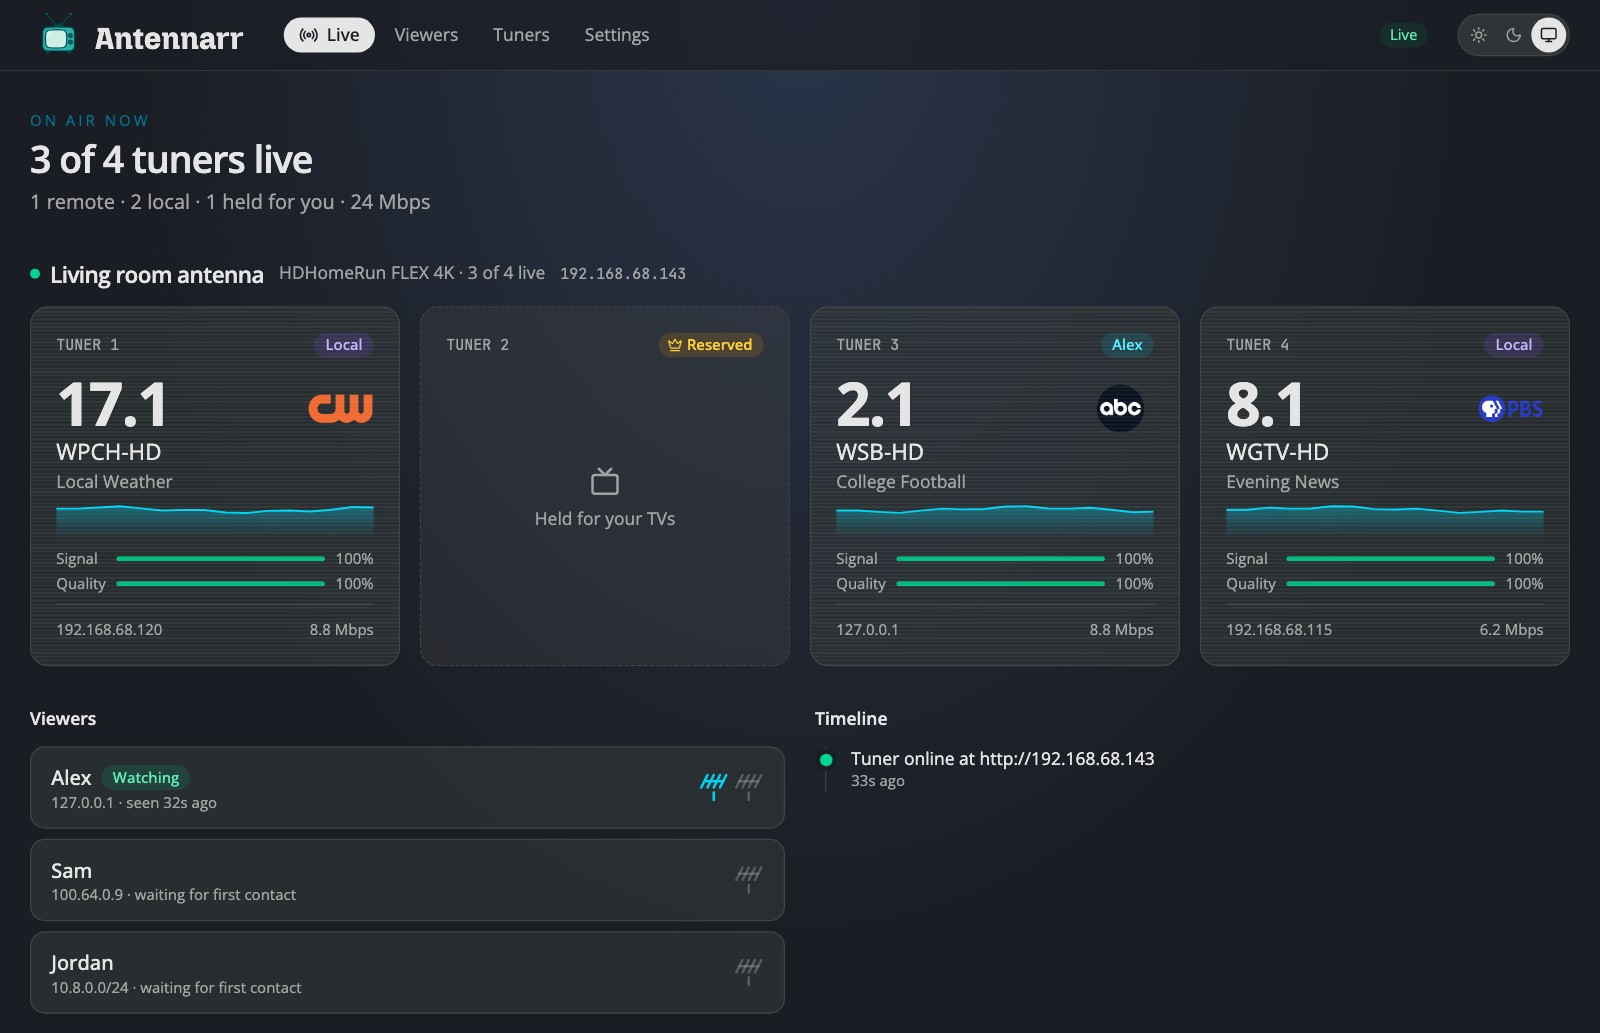
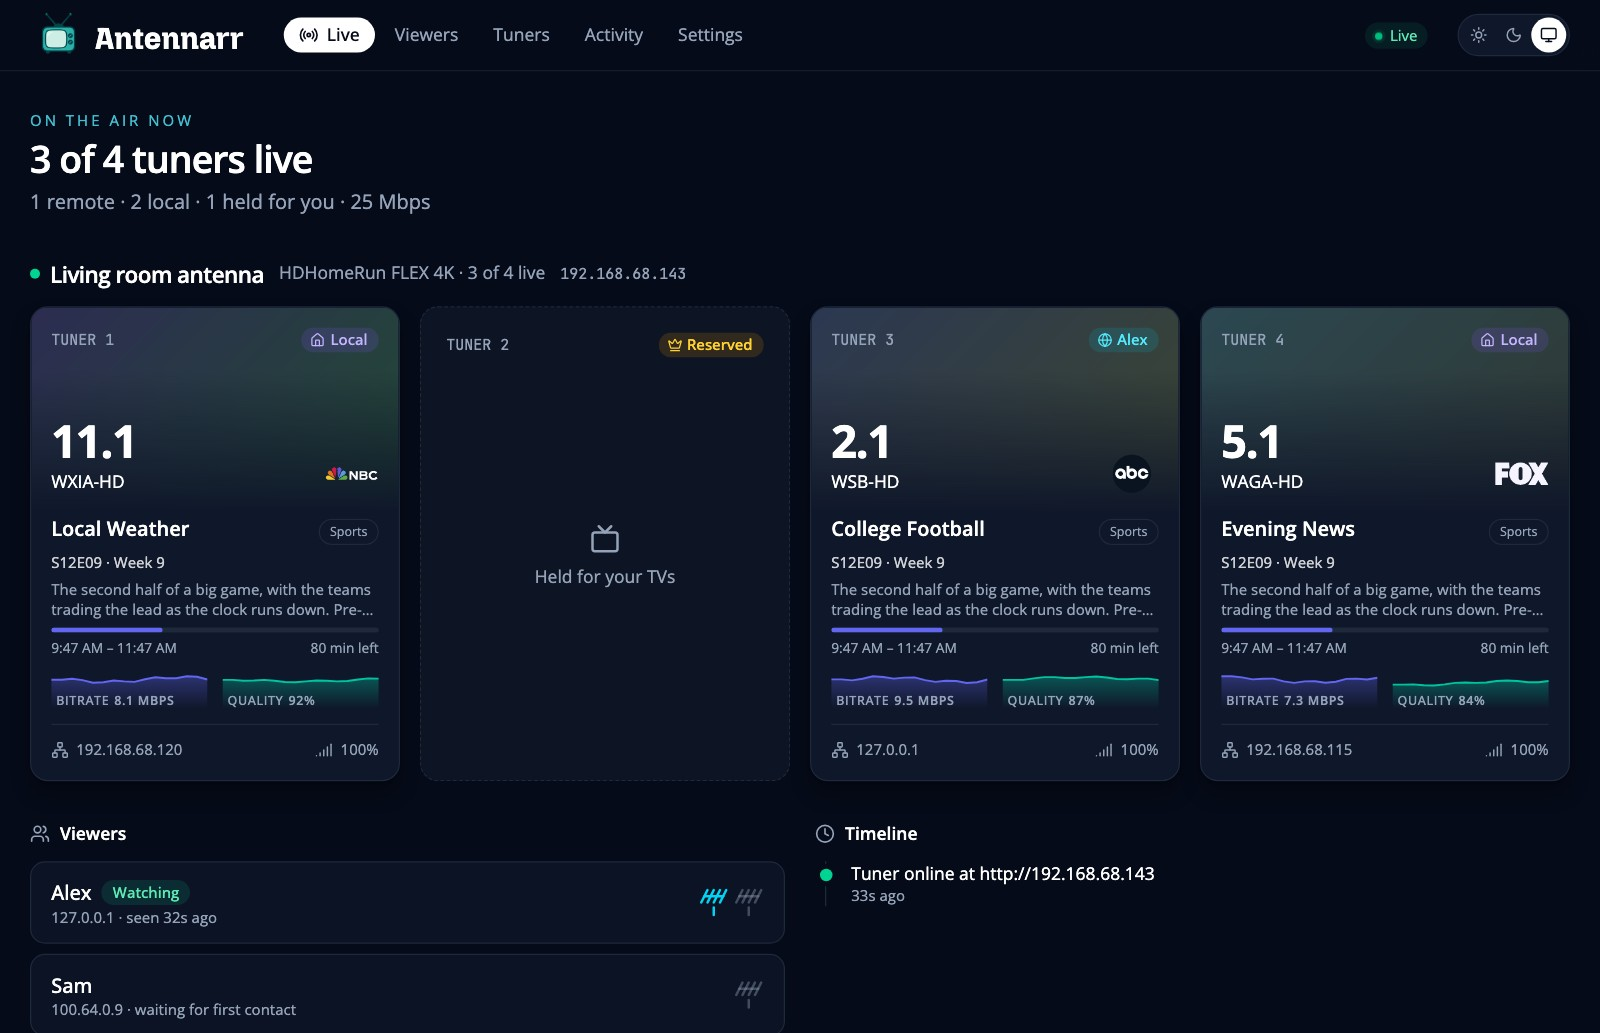
Docs and screenshots up to date, and a few touches
The docs said things that were no longer true (the old layout in DESIGN, what
is built, the API's state document) and left out what is new (Install, the
Device panel, Restart, Activity, troubleshooting for them). The screenshots are
retaken with the new theme, tiles and logos, plus new ones of the Activity and
Tuners pages, and retake.sh can use a folder of logos and takes the demo's
signal drift.

Icons on the Live page's Viewers and Timeline headings, and "On the air now".
A logo with about 40% light (or dark) artwork now counts as light (or dark), so
the NBC peacock's white lettering is outlined in the light theme.

diff --git a/web/src/pages/live.tsx b/web/src/pages/live.tsx
@@ -1,4 +1,4 @@
-import { Antenna } from 'lucide-react'
+import { Antenna, Clock, Users } from 'lucide-react'
 import { FirmwareBadge } from '@/components/firmware'
 import { NoTuners } from '@/components/no-tuners'
 import { TunerTile } from '@/components/tuner-tile'
@@ -44,7 +44,7 @@ export function LivePage() {
     <div className="space-y-8">
       <div className="flex flex-col justify-between gap-4 sm:flex-row sm:items-end">
         <div>
-          <div className="text-xs tracking-[0.2em] text-cyan-700 dark:text-cyan-700 dark:text-cyan-300/80 uppercase">On air now</div>
+          <div className="text-xs tracking-[0.2em] text-cyan-700 dark:text-cyan-300/80 uppercase">On the air now</div>
           <h1 className="mt-1 text-3xl font-semibold tracking-tight">
             {devices.length === 0 ? 'No tuners yet' : `${sum(devices, (d) => d.summary.inUse)} of ${sum(devices, (d) => d.summary.total)} tuners live`}
           </h1>
@@ -59,7 +59,10 @@ export function LivePage() {
 
       <div className="grid gap-6 lg:grid-cols-2">
         <section>
-          <h2 className="mb-3 text-sm font-semibold">Viewers</h2>
+          <h2 className="mb-3 flex items-center gap-2 text-sm font-semibold">
+            <Users aria-hidden className="size-4 shrink-0 text-muted-foreground" />
+            Viewers
+          </h2>
           {viewers.length === 0 ? (
             <p className="rounded-xl border border-dashed border-border px-4 py-6 text-sm text-muted-foreground">
               No viewers yet. Anyone who can reach {several ? 'these ports' : 'this port'} may use {several ? 'the tuners' : 'the tuner'}.
@@ -74,7 +77,10 @@ export function LivePage() {
         </section>
 
         <section>
-          <h2 className="mb-3 text-sm font-semibold">Timeline</h2>
+          <h2 className="mb-3 flex items-center gap-2 text-sm font-semibold">
+            <Clock aria-hidden className="size-4 shrink-0 text-muted-foreground" />
+            Timeline
+          </h2>
           {events.length === 0 ? (
             <p className="text-sm text-muted-foreground">Nothing has happened yet.</p>
           ) : (

diff --git a/web/src/lib/logo-tone.ts b/web/src/lib/logo-tone.ts
@@ -1,10 +1,15 @@
 /** What a channel's logo is mostly made of, which decides what to put it on. */
 export type LogoTone = 'light' | 'dark' | 'mixed'
 
+/** How much of what is drawn has to be light (or dark) for the logo to count as light (or dark). */
+const SHARE = 0.4
+
 /**
  * Looks at a logo's pixels (RGBA, as a canvas gives them) and says whether what is drawn is mostly light
  * (white lettering, which vanishes on a light background), mostly dark (which vanishes on a dark one), or
- * neither. Transparent pixels are the background, not the logo, and are not counted.
+ * neither. "Mostly" is a share of 40% or more of what is drawn: the NBC peacock with its white lettering is
+ * about 47% near-white, and still needs an outline in the light theme. Transparent pixels are the
+ * background, not the logo, and are not counted.
  */
 export function logoTone(data: ArrayLike<number>): LogoTone {
   let seen = 0
@@ -18,7 +23,7 @@ export function logoTone(data: ArrayLike<number>): LogoTone {
     else if (l < 0.2) dark++
   }
   if (seen === 0) return 'mixed'
-  return light / seen > 0.6 ? 'light' : dark / seen > 0.6 ? 'dark' : 'mixed'
+  return light / seen > SHARE ? 'light' : dark / seen > SHARE ? 'dark' : 'mixed'
 }
 
 const known = new Map<string, LogoTone>()

diff --git a/web/src/pages/live.test.tsx b/web/src/pages/live.test.tsx
@@ -176,6 +176,24 @@ describe('LivePage', () => {
 
 })
 
+describe('LivePage summary', () => {
+  it('says what is on the air now, and how many tuners are live', () => {
+    renderWithApp(<LivePage />, makeState())
+    expect(screen.getByText('On the air now')).toBeInTheDocument()
+    expect(screen.getByRole('heading', { level: 1 })).toHaveTextContent(/\d+ of \d+ tuners live/)
+  })
+})
+
+describe('LivePage headings', () => {
+  it('has an icon on the Viewers and Timeline headings, which the page names without', () => {
+    renderWithApp(<LivePage />, makeState())
+    for (const name of ['Viewers', 'Timeline']) {
+      const h = screen.getByRole('heading', { name })
+      expect(h.querySelector('svg')).toHaveAttribute('aria-hidden', 'true')
+    }
+  })
+})
+
 describe('LivePage guide', () => {
   it('passes each watched channel its logo and program', () => {
     const s = makeState()

diff --git a/web/src/lib/logo-tone.test.ts b/web/src/lib/logo-tone.test.ts
@@ -18,6 +18,11 @@ describe('logoTone', () => {
     expect(logoTone(px(...many(3, [255, 255, 255, 255]), ...many(3, [0, 0, 0, 255]), ...many(4, [200, 40, 40, 255])))).toBe('mixed')
   })
 
+  it('calls a logo with a good share of white lettering light, as the NBC logo (about 47% near-white) is', () => {
+    expect(logoTone(px(...many(47, [255, 255, 255, 255]), ...many(53, [200, 60, 40, 255])))).toBe('light')
+    expect(logoTone(px(...many(39, [255, 255, 255, 255]), ...many(61, [200, 60, 40, 255])))).toBe('mixed')
+  })
+
   it('does not count transparent pixels, which are the background and not the logo', () => {
     // a lot of transparent black around a little white lettering is still a white logo
     expect(logoTone(px(...many(50, [0, 0, 0, 0]), ...many(5, [255, 255, 255, 255])))).toBe('light')

diff --git a/internal/server/demo_test.go b/internal/server/demo_test.go
@@ -131,6 +131,20 @@ func wobble(rate float64, phase float64) int {
 	return int(rate * (1 + 0.09*math.Sin(t/2.3+phase) + 0.05*math.Sin(t*1.7+phase*3)))
 }
 
+// demoSystemPage is the made-up tuner's System Menu page, which the Device panel reads the DRM version, MAC
+// address and subnet mask from.
+const demoSystemPage = `<!DOCTYPE HTML><html><head><title>HDHomeRun System Menu</title></head><body>
+<div class="B C"><div class="T">System Status</div><table>
+<tr><td>Hardware Model</td><td>HDFX-4K</td></tr>
+<tr><td>Firmware Version</td><td>20260326</td></tr>
+<tr><td>ATSC3-DRM</td><td>SD20230420</td></tr>
+<tr class="L"><td colspan="2"></td></tr>
+<tr><td>Device ID</td><td>10ABCC87</td></tr>
+<tr><td>MAC Address</td><td>00:18:DD:00:00:01</td></tr>
+<tr><td>IP Address</td><td>192.168.68.143</td></tr>
+<tr><td>Subnet Mask</td><td>255.255.252.0</td></tr>
+</table></div></body></html>`
+
 // quality is the signal quality the demo reports: steady at 100 (what the screenshots show), or, with
 // DEMO_SIGNAL set, drifting and dipping now and then so the trend line on a tile has something to draw.
 func quality(phase float64) int {
@@ -142,10 +156,10 @@ func quality(phase float64) int {
 	return int(math.Max(5, math.Min(100, q)))
 }
 
-// strength is the signal strength the demo reports: steady at 100, or, with DEMO_SIGNAL set, sweeping
+// strength is the signal strength the demo reports: steady at 100, or, with DEMO_SIGNAL=sweep, sweeping
 // slowly from strong to nothing and back so every signal icon shows up.
 func strength(phase float64) int {
-	if os.Getenv("DEMO_SIGNAL") == "" {
+	if os.Getenv("DEMO_SIGNAL") != "sweep" {
 		return 100
 	}
 	t := float64(time.Now().UnixNano()) / 1e9
@@ -249,7 +263,7 @@ func TestDemo(t *testing.T) {
 		}
 		switch r.URL.Path {
 		case "/system.html":
-			http.ServeFile(w, r, "../tunerinfo/testdata/system.html")
+			io.WriteString(w, demoSystemPage)
 		case "/discover.json":
 			fmt.Fprintf(w, `{"DeviceAuth":"DEMO-AUTH","FriendlyName":"HDHomeRun FLEX 4K","ModelNumber":"HDFX-4K","FirmwareName":"hdhomerun_dvr_atsc3","FirmwareVersion":%q,"DeviceID":"10ABCC87","TunerCount":4,"BaseURL":"http://x","LineupURL":"http://x/lineup.json"}`, ver)
 		case "/lineup.json":

diff --git a/docs/screenshots/shoot.py b/docs/screenshots/shoot.py
@@ -80,6 +80,23 @@ with sync_playwright() as p:
     dialog.screenshot(path=f'{out}/setup.jpg', type='jpeg', quality=90)
     ctx.close()
 
+    # Who watched what: the demo seeds two weeks of made-up sessions, and Alex's stream is recorded for real.
+    ctx = context('dark', height=980)
+    page = open_page(ctx, '/antennarr/activity', '[data-testid="session"]')
+    time.sleep(1)
+    page.evaluate(SHOW_LAN_ADDRESS)
+    shot(page, 'activity')
+    ctx.close()
+
+    # The Tuners page, opened to the Device panel (read from the demo's fake tuner).
+    ctx = context('dark', height=1010)
+    page = open_page(ctx, '/antennarr/tuner', 'dt:has-text("Hardware model")')
+    time.sleep(1)
+    page.evaluate(SHOW_LAN_ADDRESS)
+    time.sleep(0.3)
+    shot(page, 'tuners')
+    ctx.close()
+
     ctx = context('dark', 390, 844, 2, phone=True)
     page = open_page(ctx, '/antennarr/', '[data-testid="tuner-tile"]')
     time.sleep(2)

diff --git a/docs/DESIGN.md b/docs/DESIGN.md
@@ -74,18 +74,19 @@ Polish target: as good as Tracearr. We use the same kind of stack but write our 
 - Charts: shadcn charts (Recharts), not Highcharts, because of Highcharts' licensing.
 - The SPA is embedded in the Go binary with `embed`, giving one container and one port.
 
-**Chosen layout: "Control room"** (chosen from a throwaway HTML mockup, since removed):
+**The layout: "Control room"** (chosen from a throwaway HTML mockup, since removed):
 
-- **Top bar:** a slim, sticky, translucent top bar with pill navigation (Live, Viewers, Tuners, Settings). On the right, the signed-in account and a Live / Reconnecting pill for the page's connection. It says nothing about the tuners: there can be any number, so each has a header on Live (its name, the model beside a name you chose, how many are live, its address and a firmware flag) and a row on Tuners, and an offline one is a banner.
-- **Hero:** a short "On air now" summary ("2 of 4 tuners live", remote/local/reserved, total Mbps), with a 24h upload sparkline beside it.
-- **One big tile per tuner:**
-  - Live tiles show a large channel number, call sign and network, with a subtle scanline texture. Below that: who's watching and the bitrate. A red REC badge marks recordings.
+- **Top bar:** a slim, sticky, translucent top bar with pill navigation (Live, Viewers, Tuners, Activity, Settings; Activity is left out while the activity history is switched off). On the right, the signed-in account and a Live / Reconnecting pill for the page's connection, with a dot that pulses while connected. It says nothing about the tuners: there can be any number, so each has a header on Live (its name, the model beside a name you chose, how many are live, its address and a firmware flag) and a row on Tuners, and an offline one is a banner.
+- **Summary:** "On the air now": how many tuners are live, then remote, local and held-for-you counts and the total Mbps.
+- **One tile per tuner:**
+  - A live tile has the program's picture faded behind its top, with the tuner's number, who holds it (a pill with an icon), the large channel number, its name and logo. Below: the program's title, category, episode and description, and a progress bar with how long is left. Then two small charts, the bitrate (with its rate) and the signal quality (with its percentage), and a footer with where the stream is going and the signal strength drawn as bars.
   - Idle tiles are dashed and read "Idle" or "Held for your TVs" (owner reserve).
-  - A badge on each tile says who holds it: viewer (cyan), local (violet), reserve (gray), free (green).
+  - The pill says who holds the tile: a viewer (cyan, with a globe), a local device (violet, with a house), the reserve (amber, with a crown), or free (green).
+  - Logos are outlined only where the artwork needs it to stay visible (a dark outline around white artwork in the light theme, a light one around dark artwork in the dark theme), decided from the logo's own pixels. There is no box around them.
 - **Adding a viewer is a short dialog of three steps** (Who, Connect, Media server), not a separate Connect page. The first step saves the viewer; the next two write out how their server reaches this one and what to do in their media server, with this machine's addresses filled in. **Connection steps** on a viewer's row reopens it at the second step. `/setup` redirects to Viewers.
 - **Below the tiles:** a Viewers list with per-viewer tuner-slot pips, and a vertical Timeline of events (started recording, limit hit, IP changed, tuner offline).
-- **Background:** a radial teal glow at the top over near-black.
-- **Shared pages:** Viewers table, Setup guide wizard, Tuner details + lineup, Settings (network mode cards, advertised URL, owner reserve slider, Plex link).
+- **Theme:** the ExploreMiam theme from tweakcn (indigo and emerald), light and dark, with the theme's own page background. The fonts are our own and are bundled with the app (Open Sans, Mozilla Headline for the wordmark, JetBrains Mono), so the page loads nothing from other sites.
+- **Other pages:** Viewers (table), Tuners (one row each, opening to a strip of what is on its tuners and Manage, Device and Firmware sections), Activity (below), Settings (network mode cards, advertised URL, owner reserve slider, Plex link, notifications, and privacy and updates).
 
 ## Status data
 
@@ -193,9 +194,12 @@ Built and tested (Go, with the race detector; UI, with Vitest):
 
 - the rewriting proxy, DeviceID discovery (UDP broadcast and an HTTP scan), the monitor and its events;
 - the allowlist, per-viewer and per-device limits, the shared cap and the owner reserve, advertised `TunerCount`;
-- several devices, display names, firmware checking;
+- several devices, display names, firmware checking and installing, a Device panel, restarting a tuner;
 - the settings file (atomic saves, reload on SIGHUP), the JSON API and the live event stream;
-- the web UI: Live, Viewers, Tuner, Settings (grouped sections and rows), a light / dark / system theme, and a placeholder Setup page.
+- the web UI: Live (with the program guide's pictures and details), Viewers, Tuners, Activity, Settings (grouped sections and rows), light and dark themes, the add-viewer wizard;
+- notifications, the What's new popup, and the activity history (below).
+
+Not built yet: rescanning channels from the UI, filtering and exporting the activity history, Plex-verified viewer enrollment, built-in Tailscale, and editing a tuner's address from the UI.
 
 - sign in with Plex (below).
 

diff --git a/docs/troubleshooting.md b/docs/troubleshooting.md
@@ -54,6 +54,7 @@ Antennarr checks the tuner every 5 seconds. After 3 failures in a row it shows i
 - **Is it listed at all?** The *Tuners* page shows the tuners being shared. Press *Add tuner* to search the network again or add one by its address. In Docker, searching needs host networking.
 - **Did its address change?** If you gave the tuner's `id` in the settings (or Antennarr has reached it before), it finds the new address by itself, usually within a minute, and the Live page's timeline records "Tuner moved … (found by DeviceID …)". If you didn't, run `antennarr discover` and put the address and `id` in the settings.
 - **A restart starts at the address in the settings file** and then searches, so it can take half a minute to come back. Put the tuner's current address in `tuner`, and reserve it in your router, to avoid the wait.
+- **Restarting or updating is not an outage.** While Antennarr restarts a tuner or installs firmware on it, the page says *Restarting…* or *Updating firmware…*, and no offline message is sent. If it stays that way for more than a few minutes, check the tuner's power and cable: the result on the *Tuners* page says what Antennarr saw.
 - **A broadcast can't cross networks.** If the tuner is on a different subnet or VLAN from Antennarr, the search can't find it. Give its address in `tuner`.
 - **In Docker**, the search needs host networking.
 
@@ -116,6 +117,21 @@ The message says why. The common ones:
 - It is on by default: check *Settings → Privacy and updates → Show what's on*.
 - It needs the machine to reach `api.hdhomerun.com` and `img.hdhomerun.com`, and the tuner has to have reported its guide key. The log shows `guide fetch failed` with the reason.
 - It only appears for channels being watched right now.
+- The picture behind a tile comes from the same guide, through Antennarr, so it needs the same two addresses. A tile without a picture is normal when the guide has none for that program.
+
+## Installing firmware or restarting says it didn't work
+
+- **"Didn't take" or "still running …"**: the tuner accepted the file and came back on the old version. Antennarr never tries a second time by itself. Check what the tuner's own page says, and try again from the *Tuners* page when nothing is using it.
+- **"SiliconDust has no firmware file …"**: Antennarr builds the download address from the tuner's firmware family and the release the check found, and SiliconDust doesn't document those addresses. The firmware check keeps working; open an issue with the model and version.
+- **"The tuner has not come back"**: give it a few minutes, then check power and the Ethernet cable and unplug it for ten seconds. Nothing more is sent to it.
+- **Restart says it kept answering**: the tuner didn't appear to restart. Try again, or restart it from its own page or by unplugging it.
+- Neither runs while something is using the tuner unless you confirm that you want to interrupt it.
+
+## The Activity page is empty or missing
+
+- It is switched on by default under *Settings → Privacy and updates → Keep activity history*, and the *Activity* item is hidden while it is off.
+- It records what is in use as it happens, so it starts empty, and a session shorter than 15 seconds is not kept.
+- Without a settings file it is kept in memory and starts over with Antennarr. Otherwise it is in `<settings file>.history.jsonl` beside it.
 
 ## Docker problems
 

diff --git a/README.md b/README.md
@@ -13,7 +13,7 @@
 <p align="center">
   <picture>
     <source media="(prefers-color-scheme: dark)" srcset="docs/screenshots/live-dark.jpg">
-    <img src="docs/screenshots/live-light.jpg" alt="The Antennarr Live page: four tuners, with one being watched by a viewer and one by a local device, each showing its channel, logo, what's on, bitrate and signal, and a list of viewers" width="900">
+    <img src="docs/screenshots/live-light.jpg" alt="The Antennarr Live page: four tuners, with one being watched by a viewer and one by a local device, each with its channel, logo, what's on and how far into it, bitrate and signal, and a list of viewers" width="900">
   </picture>
 </p>
 
@@ -29,6 +29,7 @@ media servers only ever talk to Antennarr. It also decides who may use the tuner
 - **Several tuners.** Each looks like its own HDHomeRun on its own port.
 - **A web UI.** Live tiles for each tuner (channel, logo, what's on with its picture and progress, who's watching, bitrate, signal), an Activity page of who watched what for the last 30 days, viewers, settings,
   a copy-paste setup guide, light and dark themes.
+- **A Device panel and Restart.** The Tuners page shows what each tuner says about itself (model, firmware, DRM version, addresses, channel maps) and can restart it, after asking.
 - **Firmware news.** Tells you when SiliconDust releases firmware for your model, and installs it when you press Install on the Tuners page: the latest release for that tuner only, never an older one, and never on its own.
 - **Notifications.** Optional messages to ntfy, Pushover or a webhook when there is new firmware, a tuner is offline for a couple of minutes (and when it's back), or a viewer is turned away. Each kind can be switched off, and each channel has a Test button.
 - **Any network.** Plain LAN, Tailscale, WireGuard, ZeroTier… Antennarr just listens on a port. Getting the two servers to reach each other is up to you.
@@ -43,6 +44,10 @@ media servers only ever talk to Antennarr. It also decides who may use the tuner
   <tr>
     <td width="50%"><img src="docs/screenshots/viewers.jpg" alt="The Viewers page: who can use the tuner, from which addresses, and how many tuners each gets"><br><sub><b>Viewers:</b> who can use the tuner, from where, and how many tuners each gets.</sub></td>
     <td width="50%"><img src="docs/screenshots/setup.jpg" alt="The connect step of adding a viewer, offering this machine's Tailscale and LAN addresses and the steps for the chosen connection"><br><sub><b>Connect guide:</b> a step of adding a viewer. It spots this machine's Tailscale address and writes out the steps with your real addresses.</sub></td>
+  </tr>
+  <tr>
+    <td width="50%"><img src="docs/screenshots/activity.jpg" alt="The Activity page: time watched, the most watched channel, who watched most, a bar for each day and the sessions by day"><br><sub><b>Activity:</b> who watched what, and for how long, for the last 30 days. It can be switched off in Settings.</sub></td>
+    <td width="50%"><img src="docs/screenshots/tuners.jpg" alt="The Tuners page: a tuner's strip of what is on each of its tuners, with Manage, Device and Firmware sections"><br><sub><b>Tuners:</b> what is on each tuner, what the tuner says about itself, a Restart button, and firmware.</sub></td>
   </tr>
 </table>
 

diff --git a/CONTRIBUTING.md b/CONTRIBUTING.md
@@ -75,4 +75,4 @@ By contributing you agree that your work is released under the [MIT License](LIC
 
 ## Retaking the README screenshots
 
-`docs/screenshots/retake.sh` regenerates every image in `docs/screenshots/`. It runs the demo harness (`internal/server/demo_test.go`, build tag `demo`), which serves the real UI against a fake HDHomeRun, a fake guide and made-up viewers, then drives Chromium with `shoot.py` (needs Python with Playwright). Nothing real appears in the images. Build the web UI first (`npm run build` in `web/`), then run the script from the repo root.
+`docs/screenshots/retake.sh` regenerates every image in `docs/screenshots/`. It runs the demo harness (`internal/server/demo_test.go`, build tag `demo`), which serves the real UI against a fake HDHomeRun, a fake guide and made-up viewers, then drives Chromium with `shoot.py` (needs Python with Playwright). Nothing real appears in the images. Build the web UI first (`npm run build` in `web/`), then run the script from the repo root. The demo also has switches for trying things by hand: `DEMO_SIGNAL=1` makes the signal quality drift, `DEMO_SIGNAL=sweep` also sweeps the signal strength through every icon, `DEMO_UPDATE=1` makes the tuner a release behind so firmware *Install* can be tried, and `DEMO_LOGOS=<folder>` uses your own logos (see `retake.sh`).

diff --git a/docs/api.md b/docs/api.md
@@ -66,7 +66,7 @@ Bodies are limited to 64 KB, and a field the endpoint doesn't know is an error. 
 ```json
 {
   "time": "2026-10-17T20:00:00Z",
-  "devices": [ { "name": "antenna", "label": "…", "listen": ":5004", "tuner": { "online": true, "id": "10C03B06", "baseURL": "http://192.168.1.50", "tunerCount": 4, "slots": [ … ], "events": [ … ] }, "streams": [ … ], "summary": { … }, "firmware": { … }, "guide": { … } } ],
+  "devices": [ { "name": "antenna", "label": "…", "listen": ":5004", "tuner": { "online": true, "id": "10C03B06", "baseURL": "http://192.168.1.50", "tunerCount": 4, "slots": [ … ], "events": [ … ], "updating": false, "restarting": false }, "streams": [ … ], "summary": { … }, "firmware": { … }, "upgrade": { … }, "restart": { … }, "guide": { … } } ],
   "viewers": [ … ],
   "settings": { "mode": "enforced", "sharedCap": 0, "ownerReserve": 1, "admin": [], "firmwareCheck": true, "guide": true, "history": true, "plex": { "enabled": false, "admins": [] }, "notifications": { "channels": [ … ], "events": { "firmware": true, "tuner": true, "viewer": true, "unknown": false } } },
   "editable": true,
